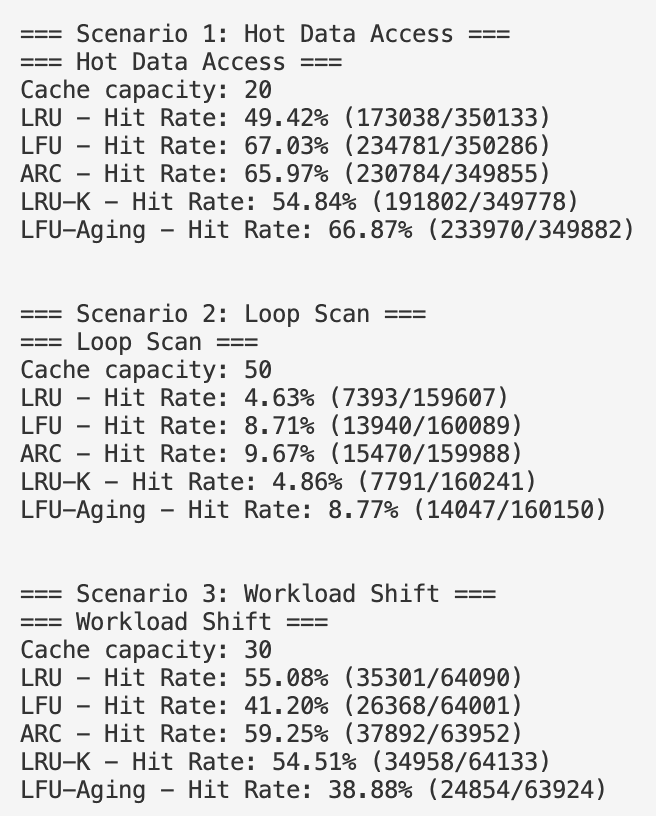
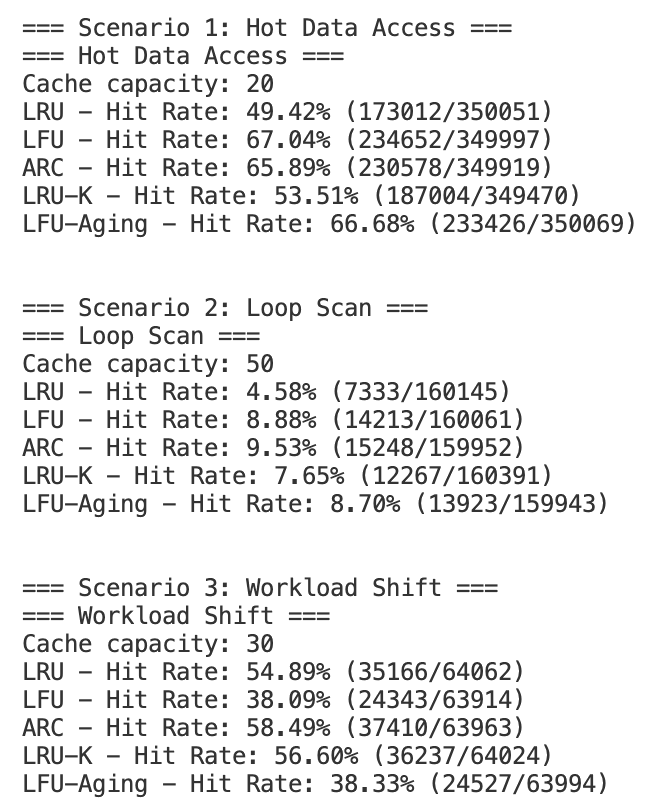
fix: correct LRU-K polymorphic get behavior

Changed region(s): [[0.0305, 0.0, 0.9756, 0.3079], [0.0305, 0.7081, 0.9451, 0.9852], [0.0305, 0.3695, 0.9451, 0.6466]]

diff --git a/KLruCache.h b/KLruCache.h
@@ -202,42 +202,45 @@ public:
         , k_(k)
     {}
 
-    // get the value of the key
-    Value get(Key key) override
+    bool get(Key key, Value& value) override
     {
         // First try to get the value from the main cache
-        Value value{};
         bool inMainCache = KLruCache<Key, Value>::get(key, value);
 
-        // Get and update the access count in the history cache
+        // Update access history
         size_t historyCount = historyList_->get(key);
         historyCount++;
         historyList_->put(key, historyCount);
 
-        // If the key is already in the main cache, return it directly
         if (inMainCache)
         {
-            return value;
+            return true;
         }
 
-        // If the access count reaches k, try to promote it to the main cache
         if (historyCount >= k_)
         {
             auto it = historyValueMap_.find(key);
 
             if (it != historyValueMap_.end())
             {
-                Value storedValue = it->second;
+                value = it->second;
 
                 historyList_->remove(key);
                 historyValueMap_.erase(it);
 
-                KLruCache<Key, Value>::put(key, storedValue);
+                KLruCache<Key, Value>::put(key, value);
 
-                return storedValue;
+                return true;
             }
         }
 
+        return false;
+    }
+
+    Value get(Key key) override
+    {
+        Value value{};
+        get(key, value);
         return value;
     }
 

diff --git a/README.md b/README.md
@@ -156,13 +156,13 @@ under three different workload patterns.
 
 A small set of keys receives most accesses, while a much larger cold-key set is accessed occasionally.
 
-| Policy    | Hit Rate   |
-| --------- | ---------- |
-| LRU       | 49.42%     |
-| LFU       | **67.03%** |
-| ARC       | 65.97%     |
-| LRU-K     | 54.84%     |
-| LFU-Aging | 66.87%     |
+| Policy | Hit Rate |
+| --- | ---: |
+| LRU | 49.42% |
+| LFU | **67.04%** |
+| ARC | 65.89% |
+| LRU-K | 53.51% |
+| LFU-Aging | 66.68% |
 
 LFU performs best because access frequency is a strong predictor of future accesses in a stable hot-key workload.
 
@@ -170,13 +170,13 @@ LFU performs best because access frequency is a strong predictor of future acces
 
 The workload repeatedly scans a key range much larger than the cache capacity.
 
-| Policy    | Hit Rate  |
-| --------- | --------- |
-| LRU       | 4.63%     |
-| LFU       | 8.71%     |
-| ARC       | **9.67%** |
-| LRU-K     | 4.86%     |
-| LFU-Aging | 8.77%     |
+| Policy | Hit Rate |
+| --- | ---: |
+| LRU | 4.58% |
+| LFU | 8.88% |
+| ARC | **9.53%** |
+| LRU-K | 7.65% |
+| LFU-Aging | 8.70% |
 
 Sequential scans can heavily pollute an LRU cache because newly scanned entries continuously replace older entries.
 
@@ -192,13 +192,13 @@ The access pattern changes across several phases, including:
 - local random access
 - mixed workloads
 
-| Policy    | Hit Rate   |
-| --------- | ---------- |
-| LRU       | 55.08%     |
-| LFU       | 41.20%     |
-| ARC       | **59.25%** |
-| LRU-K     | 54.51%     |
-| LFU-Aging | 38.88%     |
+| Policy | Hit Rate |
+| --- | ---: |
+| LRU | 54.89% |
+| LFU | 38.09% |
+| ARC | **58.49%** |
+| LRU-K | 56.60% |
+| LFU-Aging | 38.33% |
 
 ARC performs best because it can dynamically adjust between recency-oriented and frequency-oriented caching as the workload changes.
 
